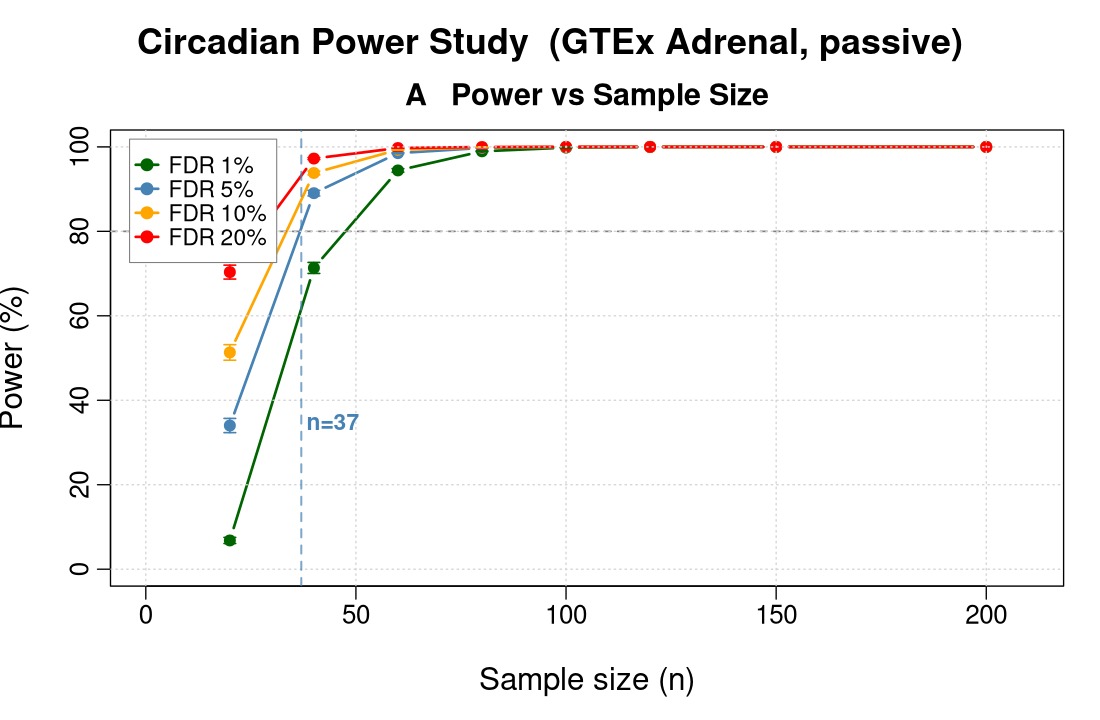
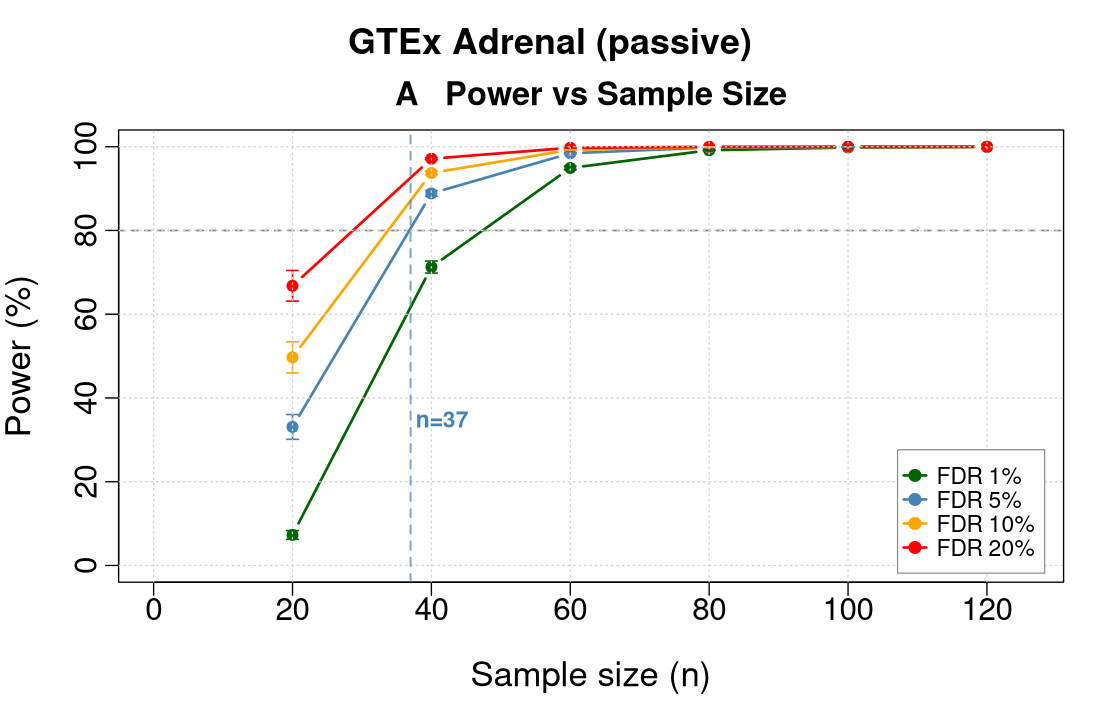
Polish README figures and wording
Switched the Pick-a-pilot histogram to the caudate example so it matches the rest
of the walkthrough, and reworded the single-cohort formula-versus-simulation line
toward the effect-size heterogeneity that the simulation captures. Regenerated the
Shiny app power curve with the legend in the bottom-right corner, and shrank the
bootstrap figure's display width so it sits at the same height as the wide
multi-panel figures.

diff --git a/README.md b/README.md
@@ -205,17 +205,18 @@ distribution (`r_tilde = A / sigma`, amplitude over noise, per gene) tells you
 what you are working with before you simulate anything.
 
 ```r
-bio <- scp_load_pilot("human", "GTEx", "Adrenal", "All")
-bio$ngenes <- 1200
+cau  <- readRDS(system.file("extdata", "caudate_control_GSE160521.rds", package = "SCP"))
+prep <- prepCircadianData(cau$expr, cau$times, input_type = "log2")
+bio  <- estCircadianParam(prep$data, prep$times, period = 24)
 
 r_tilde <- bio$amplitude / bio$sigma_rhythmic
 hist(r_tilde, breaks = 40, col = "#4C79A6", border = "white",
-     main = "GTEx Adrenal pilot: per-gene effect size",
+     main = "GSE160521 Caudate control pilot: per-gene effect size",
      xlab = expression("effect size  " * tilde(r) == A / sigma))
 abline(v = median(r_tilde), col = "#C0392B", lwd = 2)
 ```
 
-![Effect-size distribution of the GTEx Adrenal pilot](man/figures/pilot_effect_size.png)
+![Effect-size distribution of the GSE160521 Caudate control pilot](man/figures/pilot_effect_size.png)
 
 ### b. Single-cohort power
 
@@ -266,8 +267,9 @@ cannot be controlled, so SCP draws them from the pilot's own time-of-day
 distribution. The simulation lands far above the closed form (113 against 40),
 because the weak-gene tail and the genome-wide FDR control, which the
 single-number formula leaves out, both cost samples, and this striatal pilot
-spans a broad range of effect sizes. That gap is the reason SCP simulates rather
-than trusting a formula. Draw the panels straight from the pilot:
+spans a broad range of effect sizes. That gap reflects the transcriptome-wide
+effect-size heterogeneity a single-summary formula cannot capture but the
+simulation does. Draw the panels straight from the pilot:
 
 ```r
 plotSingleCohortPower(bio.opts = bio_c, design.opts = design,
@@ -377,7 +379,8 @@ boot <- runBootstrapDesignGrid(pilot_data = prep$data, pilot_times = prep$times,
 plotBootstrapDesignGrid(boot, panels = "A")
 ```
 
-![Bootstrap uncertainty for the caudate control pilot](man/figures/bootstrap_ci.png)
+<img src="man/figures/bootstrap_ci.png" alt="Bootstrap uncertainty for the caudate control pilot" width="440">
+
 
 The blue line is the point estimate (plug-in power); the orange line with error
 bars is the bootstrap mean and its 95 percent confidence interval. With only 59
